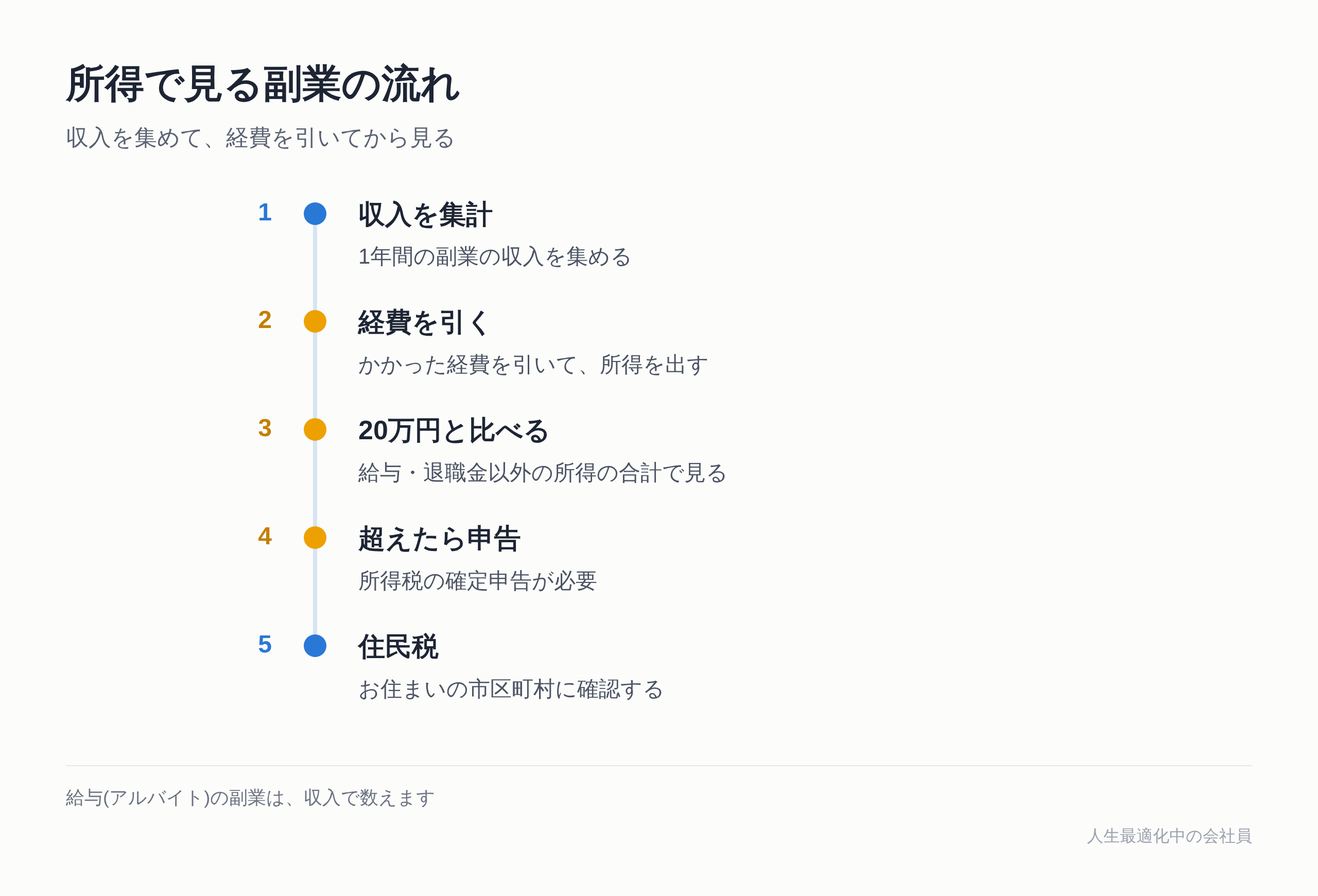
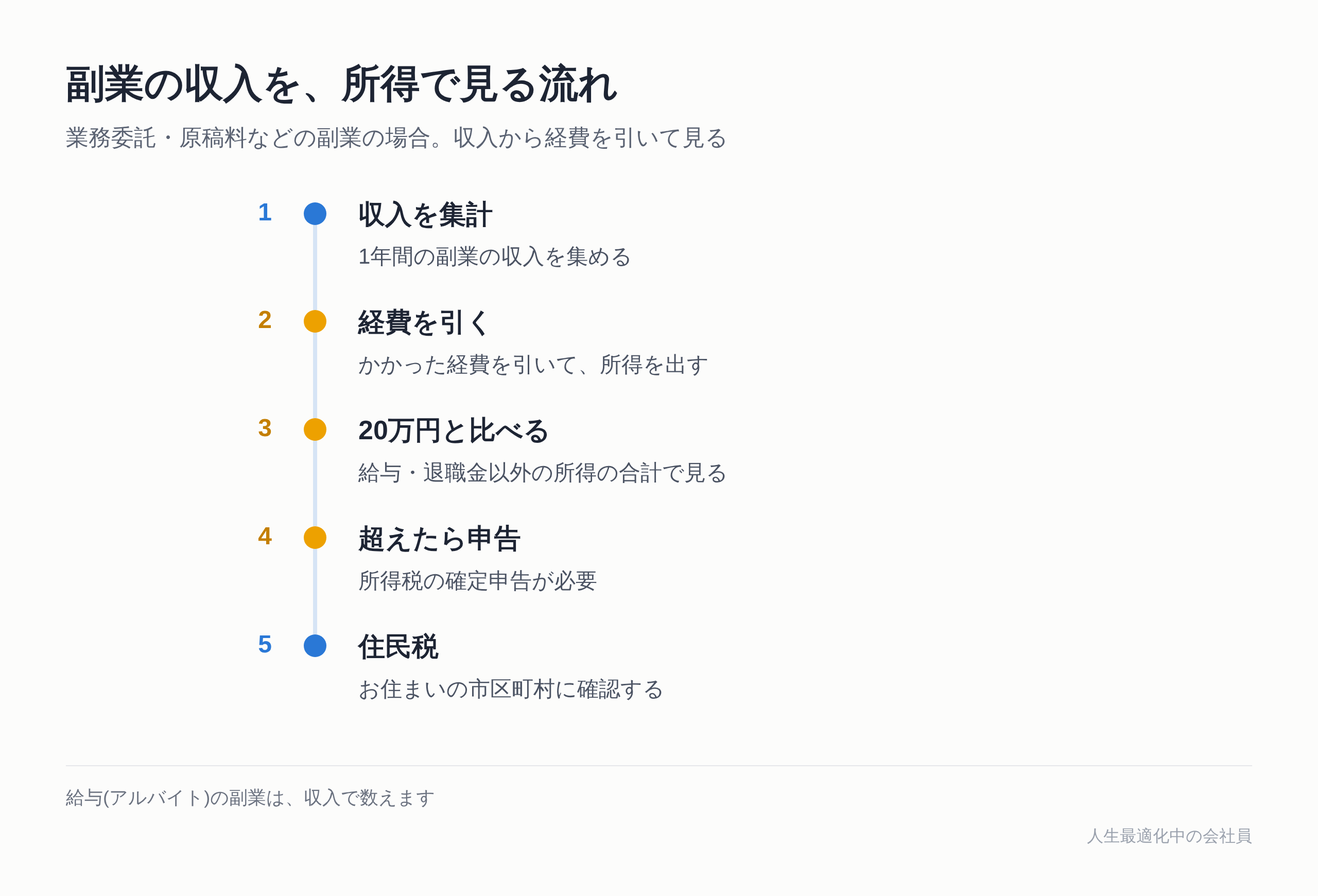
2026-10-24_001: redo edit; new title; update cover, fig1, SNS drafts
Claude-Session: https://claude.ai/code/session_019jxzMkHZEL8EPC28xkVZW1

Changed region(s): [[0.0312, 0.0621, 0.4688, 0.1862], [0.5, 0.1241, 0.5312, 0.1552]]

diff --git a/runs/2026-10-24_001/05_revised.md b/runs/2026-10-24_001/05_revised.md
@@ -1,4 +1,4 @@
-# 副業の申告、入金額ではなく「所得」で見る理由
+# 副業の申告、「収入」と「所得」は別もの
 【画像:2026-10-24_cover.png】
 
 どうも、地道編集部です。今日は、副業のお金の話です。
@@ -7,13 +7,13 @@
 
 ## 結論:業務委託・原稿料などの副業は「所得」で見る
 
-国税庁の案内によると、会社から給与を1か所から受けている人は、給与と退職金以外の所得の合計が年20万円を超えると、所得税の確定申告が必要です(国税庁の案内。末尾の情報源1)。
+令和8年4月1日現在の法令にもとづく国税庁の案内によると、給与を1か所だけから受けている人は、給与と退職金以外の所得の合計が年20万円を超えると、所得税の確定申告が必要です(国税庁の案内。末尾の情報源1)。
 
-ここでいう「所得」は、入金の合計(収入)ではありません。収入から必要経費を引いた、副業の「もうけ」のことです。国税庁の雑所得のページでは、営利目的で継続的に行う副業の収入を「業務に係る雑所得」として説明していて、原稿料なども例に挙がっています。その金額は、総収入金額から必要経費を差し引いて計算します(情報源3)。
+ここでいう「所得」は、収入の合計そのものではありません。収入から必要経費を引いた、副業の「もうけ」のことです。国税庁の雑所得のページでは、営利目的で継続的に行う副業の収入を「業務に係る雑所得」として説明していて、原稿料なども例に挙がっています。その金額は、総収入金額から必要経費を差し引いて計算します(情報源3)。
 
 ただし、副業がアルバイトなどの給与の場合は、判定のしかたが違います。次の節で説明します。
 
-まず、所得で見る副業の流れです。
+業務委託・原稿料などの副業の場合の流れです。
 
 【画像:2026-10-24_fig1_timeline.png】
 
@@ -29,7 +29,7 @@
 
 掛け持ちのアルバイトなら、給与は収入のまま判定します。ここで経費を引いてしまうと、判定がずれます。当てはまる人は、国税庁のページ(情報源1)で、自分の場合を一度見ておくと安心です。
 
-このほか、給与の年間収入が2,000万円を超える人も、確定申告が必要です(情報源1)。反対に、申告すると税金が戻る人は、必須の対象から外れ、申告は任意になります(情報源1)。
+このほか、給与の年間収入が2,000万円を超える人も、確定申告が必要です(情報源1)。反対に、申告すると税金が戻る人は、出さなくても構いません。出すかどうかは任意です。
 
 ## 住民税は、別に確かめる
 
@@ -37,16 +37,16 @@
 
 ## 失敗1:収入と所得の違いを知らない
 
-経費をたくさん使った月ほど、なんとなく「稼いだ」気がする。そんなこと、ありませんか。でも、判定に使うのは入金の多さではなく、所得です。
+経費をたくさん使った月ほど、なんとなく「稼いだ」気がする。そんなこと、ありませんか。でも、判定に使うのは収入の多さではなく、所得です。
 
 ここから先は、説明用の架空の例です。
 
 - 例A:1年の収入が30万円、必要経費が12万円 → 所得は18万円
 - 例B:1年の収入が25万円、必要経費が3万円 → 所得は22万円
 
-収入だけを見ると、Aのほうが大きく見えます。でも、所得はBのほうが大きく、この例では、Bだけが20万円を超えます。経費に何が入るかは人によって違うので、上の数字は計算の流れを見るためのものです。
+収入はAのほうが多いのに、20万円を超えるのはBだけです。経費に何が入るかは人によって違うので、上の数字は計算の流れを見るためのものです。
 
-もう一つ、赤字の扱いも知っておくと役に立ちます。「副業が赤字なら、給与の税金が戻るのでは」と思う人もいるかもしれません。国税庁の雑所得のページでは、雑所得で損失が出ても、他の所得と損益通算はできないと説明されています(情報源3)。副業の赤字を、給与など他の所得から引くことはできない、ということです。
+副業が赤字のときの扱いも、押さえておきます。国税庁の雑所得のページでは、雑所得で損失が出ても、他の所得と損益通算はできないと説明されています(情報源3)。副業の赤字を、給与など他の所得から引くことはできない、ということです。
 
 ## 失敗2:経費の記録を取っていない
 
@@ -54,11 +54,11 @@
 
 年が明けてから、レシートを探し回って見つからない。そんな年明けになりがちです。
 
-記録は、1つのメモか表に、日付・金額・何のためのお金かを書いておくだけでも形になります。入金と出費を分けておくと、あとで数えるのがラクです。
+記録は、1つのメモか表に、日付・金額・何のためのお金かを書いておくだけでも形になります。収入と出費を分けておくと、あとで数えるのがラクです。
 
-何が必要経費になるかの個別の線引きは、この記事では扱いません。迷うものは、レシートや記録を残したうえで、税務署や専門家に聞くと安心です。
+何が必要経費になるかの個別の線引きは、この記事では扱いません。迷うものは、レシートや記録を残したうえで、税務署や専門家に聞けば確かです。
 
-副業の収入が増えてくると、保存しておく書類の決まりも出てきます。業務の雑所得で、前々年の収入が300万円を超えると、現金預金取引等関係書類(取引の書類)を保存する決まりがあります(情報源3)。まだ先の話の人が多いかもしれませんが、頭の片すみに置いておくと役に立ちます。
+副業の収入が増えてくると、保存しておく書類の決まりも出てきます。業務の雑所得で、前々年の収入が300万円を超えると、現金預金取引等関係書類(取引の書類)を保存する決まりがあります(情報源3)。始めたばかりなら、まだ先の話かもしれません。頭の片すみに置いておけば十分です。
 
 ## 失敗3:会社の副業ルールを見ていない
 
@@ -80,7 +80,7 @@
 4. 会社の就業規則を確認しましたか
 5. 住民税の扱いを、市区町村に確認しましたか
 
-全部にチェックが付かなくても大丈夫です。付かなかった項目が、次にやることです。
+付かなかった項目が、次にやることです。
 
 ## 僕自身の失敗
 
@@ -88,8 +88,8 @@
 
 ## まとめ
 
-- 業務委託・原稿料などの副業は、収入ではなく「所得(収入−必要経費)」で見る。副業が給与(アルバイト)なら判定は別なので、国税庁のNo.1900を確認する
-- 給与を1か所から受けている人は、給与と退職金以外の所得が年20万円を超えると、所得税の確定申告が必要
+- 業務委託・原稿料などの副業は、収入そのものではなく「所得(収入−必要経費)」で見る。副業が給与(アルバイト)なら判定は別なので、国税庁の案内(情報源1)を確認する
+- 令和8年4月1日現在、給与を1か所だけから受けている人は、給与と退職金以外の所得が年20万円を超えると、所得税の確定申告が必要
 - 住民税の扱いは、市区町村に確認する
 
 この記事は、国税庁の公開情報をもとにした一般的な情報で、税務や法律の助言ではありません。実際の判断は、自己責任で、税務署や税理士などの専門家、お住まいの市区町村に相談してください。
@@ -104,22 +104,18 @@
 - 情報源3: https://www.nta.go.jp/taxes/shiraberu/taxanswer/shotoku/1500.htm (国税庁 No.1500 雑所得。確認日:2026-10-24。法令等の基準日:令和8年4月1日現在)
 
 ## 修正履歴
-- 問題1: 結論の見出しを「業務委託・原稿料などの副業は「所得」で見る」に絞り、直後に「副業がアルバイトなどの給与の場合は判定が違う」と1文を追加。新しい節「副業が給与(アルバイト)のときは「収入」で見る」を作り、給与型は収入で判定すると明記(S1)。まとめ1行目にも「給与(アルバイト)なら判定は別。No.1900を確認」を追加。チェックリスト3も所得/収入の区別に変更。
-- 問題2: 住民税は別節にして、「公的年金のページの注記」「副業の場合の扱いはこの記事では確認できていない」と出典の範囲に合わせた。まとめは「市区町村に確認する」まで弱め、fig1の5番、チェックリスト5も「申告が必要な場合がある」と言い切らない文言にした。
-- 問題3: タイトルを批評案の「副業の「20万円」、何の20万円?」(17字、短い型)に変更。導入のフックとつながる。
-- 問題4: 「僕が確認できた/確認できていない/確認できなかった」を全て外し、記事の範囲の話に直した。「確認できていません」は住民税の1か所のみ。「僕が作った架空の例」は「説明用の架空の例」に変更。
-- 問題5: 字数を2,500〜3,500字の範囲に調整(手計算で本文約2,900字。機械検査は未実施)。足したのは01_research.mdの確認済み事実のみ(還付なら申告は任意[S1]、損益通算できない[S4]、年収2,000万円超[S1])。
-- 問題6: 失敗3を3行の確認項目に縮め、「申告とは別に会社のルールも始める前に」とつないだ。言い訳の文は削除。浮いた分は損益通算・還付に回した。
-- 問題7: 導入を、読者の場面としてひと続きに書き直した(「副業を始めて、初めての入金があった。…」)。
-- 問題8: 失敗1のあるあるを「経費をたくさん使った月ほど、なんとなく「稼いだ」気がする」に変更。author_notes.md の該当行の更新は、このAgentの権限外のため未対応(呼び出し元で更新が必要)。
-- 問題9: あいさつを「どうも、地道編集部です。今日は、副業のお金の話です。」に変更(10-22、10-23の「こんにちは、人生最適化中の会社員です…」と別の型)。お礼も「読んでくれて、ありがとうございました。」に変えた。
-- 問題10: 雑所得の説明を「国税庁の雑所得のページでは、営利目的で継続的に行う副業の収入を「業務に係る雑所得」として説明」と出典の書き方に合わせた。
-- 問題11: 「など」を消し、「業務の雑所得で、前々年の収入が300万円を超えると、取引の書類を保存する決まり」とした。
-- 問題12: 「給与と退職金以外の所得」に直した。
-- 問題13: 判定の根拠をS1(基準日が令和8年4月1日)に寄せ、令和6年分のS2(r6のページ)は情報源から外した。
-- 問題14: 「年末調整されなかった給与の収入」を「勤め先で年末の手続き(年末調整)をしていない側の給与の「収入」」に言い換え。本文中の出典は「(情報源1)」の形にした(初出のみ「国税庁の案内。末尾の情報源1」)。
-- 問題15: 失敗例の1つ目を「「20万円」を、入金の合計のことだと思っていた」だけにした。
-- 問題16: 執筆メモを削除。内容はauthor_notes.md側に置く必要があるが、このAgentの権限外のため未対応(呼び出し元で更新が必要)。
-- 校正: 「〜と考えられます」を2か所とも言い切りに変更。「先に答えを書きます」「流れにすると、次のとおりです」「ここまでを、チェックリストにまとめます」を削除。まとめを5行から3行に絞った。「〜してください」の一部を「〜と安心です」「〜で確かめられます」に変更。あるあるの締めを変えた(「そんな人もいると思います」は導入の1回のみ)。「失敗3」の見出しを「見ていない」に統一。表記は「副業」「所得」「収入」「必要経費」「確定申告」で統一。
-- タイトル変更(2026-10-24、持ち主の指示「意味がわからない」): 「副業の「20万円」、何の20万円?」(「何の20万円」が読者に伝わりにくい)を、本文の中身(入金額ではなく所得で見る)に合う「副業の申告、入金額ではなく「所得」で見る理由」(22字)に変えた。見出し画像・SNS案の同じタイトルも直した。
-- 体験欄(2026-10-24): 持ち主の言葉1文だけを、そのまま反映した。誤字は見当たらず直していない。持ち主が書いていない理由・時期・数字は足していない。
+- 問題1: 対応した。タイトルから「理由」を外し、本文が扱う中身に合わせて「副業の申告、「収入」と「所得」は別もの」(19字)に変更した。給与型は収入、業務委託型は所得という本文とも食い違わない。理由の説明は01_research.mdに出典が無いため、本文には足していない。
+- 問題2: 対応した。問題1のタイトルで、「所得で見る」と全員向けに言い切る形をやめた。「申告」の範囲は、結論の文に「所得税の確定申告」と入れ、住民税は別の節に分けた。
+- 問題3: 対応した。タイトルの「入金額」を消した。本文は「ここでいう「所得」は、収入の合計そのものではありません」に直した。「入金」を収入の言い換えに使うのをやめ、失敗1は「収入の多さ」、失敗2は「収入と出費を分けておく」に直した。導入の「初めての入金」は読者の場面なので残した。源泉徴収や手数料の例は、出典が無いので足していない。
+- 問題4: 対応しなかった(持ち主に聞く)。「僕自身の失敗」の見出しは、機械の検品が見る可能性があるので変えず、持ち主の1文も一字も変えていない。持ち主への問いは author_notes.md に残した。問い: 見出しを「僕のいま」などに変えるか、残して申告まわりのつまずきを1文足すか。
+- 問題5: 対応しなかった(持ち主に聞く)。「」で囲んだ今の形と普通体のまま、一字も変えていない。「」を外して地の文にするか、普通体のままでよいかは、author_notes.md の問いに残した。
+- 問題6: 対応した。結論の1文目に「令和8年4月1日現在の法令にもとづく国税庁の案内によると」を入れた。まとめの2行目にも同じ時点を入れた。数字は変えていない。
+- 問題7: 対応した。「まだ先の話の人が多いかもしれません」を「始めたばかりなら、まだ先の話かもしれません」に直し、割合を外した。
+- 問題8: 対応した。赤字の文を「副業が赤字のときの扱いも、押さえておきます。」とし、思い込みの場面をやめた。「あるある」は導入・失敗1・失敗2の3か所に収まる。author_notes.md の記録を、本文の今の文言と節(失敗2)に直した。
+- 問題9: 対応した。図の前に「業務委託・原稿料などの副業の場合の流れです。」を入れた。図の側の範囲の入れ方は、author_notes.md に書いた(figures.json は呼び出し元が直す)。
+- 問題10: 対応した。「会社から給与を1か所から受けている人」を「給与を1か所だけから受けている人」に直した。「今の会社」は、出典に無い言い換えになるので使っていない。
+- 問題11: 対応した。まとめの「No.1900を確認する」を「国税庁の案内(情報源1)を確認する」に直した。
+- 問題12: 対応した。「役に立ちます」は、赤字の文を書き換えたため1回(のち「頭の片すみに置いておけば十分です」)に変え、「安心です」は「税務署や専門家に聞けば確かです」に変えた。「安心です」は給与型の節の1回だけ。
+- 校正: 2,000万円の文の(情報源1)の重複を消し、「出さなくても構いません。出すかどうかは任意です」に直した。A・Bの例の文を「収入はAのほうが多いのに、20万円を超えるのはBだけです。」の1文にした。チェックリストの後の励ましの1文目を削除した。「多いかもしれません」は外した。
+- タイトル変更(2026-10-24): 持ち主の「意味がわからない」を受けた前回の変更(「副業の申告、入金額ではなく「所得」で見る理由」)を、批評1〜3を受けて「副業の申告、「収入」と「所得」は別もの」に変えた。見出し画像と06_sns.mdの直し先は author_notes.md に書いた。
+- 体験欄(2026-10-24): 持ち主の1文は、一字も変えず、足してもいない。理由・時期・数字は足していない。

diff --git a/runs/2026-10-24_001/06_sns.md b/runs/2026-10-24_001/06_sns.md
@@ -1,12 +1,12 @@
-# SNS投稿案: 副業の申告、入金額ではなく「所得」で見る理由
+# SNS投稿案: 副業の申告、「収入」と「所得」は別もの
 
 ## X投稿案
-- 副業の申告、入金額ではなく「所得」で見る理由 業務委託や原稿料などの副業は、入金の合計ではなく「収入−必要経費」の所得で見ます。国税庁の案内をもとに整理しました。【記事URL】
+- 副業の申告、「収入」と「所得」は別もの 業務委託や原稿料などの副業は、入金の合計ではなく「収入−必要経費」の所得で見ます。国税庁の案内をもとに整理しました。【記事URL】
 - 例えば(架空の例)。収入30万円・経費12万円なら所得は18万円。収入25万円・経費3万円なら所得は22万円。収入が大きくても、所得は小さいことがあります。【記事URL】
 - 副業がアルバイトなど給与の場合は、数え方が別です。経費を引かず「収入」で見ます。自分はどちらか、国税庁のNo.1900で一度確かめておくと安心です。【記事URL】
 - 副業の赤字は、給与など他の所得から引けるのか。国税庁の雑所得のページでは、損益通算はできないと説明されています。記事で整理しました。【記事URL】
-- [告知・投稿当日用] 本日の記事です。「副業の申告、入金額ではなく「所得」で見る理由」。収入と所得の違い、経費の記録、会社の副業ルール、申告前に確かめる5つを整理しました。【記事URL】
-- [告知・2日後のリマインド用] 先日公開した「副業の申告、入金額ではなく「所得」で見る理由」です。副業で入金があった方は、申告の前に確かめる5つのチェックを置いています。よければどうぞ。【記事URL】
+- [告知・投稿当日用] 本日の記事です。「副業の申告、「収入」と「所得」は別もの」。収入と所得の違い、経費の記録、会社の副業ルール、申告前に確かめる5つを整理しました。【記事URL】
+- [告知・2日後のリマインド用] 先日公開した「副業の申告、「収入」と「所得」は別もの」です。副業で入金があった方は、申告の前に確かめる5つのチェックを置いています。よければどうぞ。【記事URL】
 
 ## Threads投稿案
 - 副業で初めての入金があって、通帳の数字が少し増えている。そこで「年20万円までは申告しなくていい」という話を思い出すけれど、何の20万円かはよく分からない。そんな人もいると思います。
@@ -26,18 +26,18 @@
 
 経費の記録は、日付・金額・何のためのお金かをメモしておくだけでも形になります。何が必要経費になるかの線引きは、迷うものを税務署や専門家に聞くと安心です。
 【記事URL】
-- [告知・投稿当日用] 今日の記事を公開しました。「副業の申告、入金額ではなく「所得」で見る理由」。
+- [告知・投稿当日用] 今日の記事を公開しました。「副業の申告、「収入」と「所得」は別もの」。
 
 業務委託・原稿料などの副業は「所得」、アルバイトなど給与の副業は「収入」で見る、という違いから整理しています。あわせて、経費の記録、会社の就業規則、住民税の確認先も。国税庁の公開情報をもとにした、一般的な情報です。
 【記事URL】
-- [告知・2日後のリマインド用] 先日の記事「副業の申告、入金額ではなく「所得」で見る理由」のご案内です。
+- [告知・2日後のリマインド用] 先日の記事「副業の申告、「収入」と「所得」は別もの」のご案内です。
 
 申告の前に確かめる5つ(収入と所得の区別、経費の記録、副業の種類、就業規則、住民税の確認)を、チェックリストにしました。全部に付かなくても大丈夫で、付かなかった項目が次にやることです。
 【記事URL】
 
 ## Instagram投稿案
 カルーセル案(1枚=短い文言)
-- 1枚目: 副業の申告、入金額ではなく「所得」で見る理由
+- 1枚目: 副業の申告、「収入」と「所得」は別もの
 - 2枚目: 国税庁の案内では、給与を1か所から受けている人は、給与と退職金以外の所得が年20万円を超えると所得税の確定申告が必要
 - 3枚目: 「所得」は、入金の合計ではなく「収入−必要経費」
 - 4枚目: 例えば(架空の例)収入30万円・経費12万円 → 所得18万円 / 収入25万円・経費3万円 → 所得22万円
@@ -48,7 +48,7 @@
 - 9枚目: 続きは記事で。プロフィールのリンクから(一般的な情報で、税務の助言ではありません)
 
 ## Instagramキャプション
-副業の申告、入金額ではなく「所得」で見る理由 今日のnoteは、副業のお金の話です。
+副業の申告、「収入」と「所得」は別もの 今日のnoteは、副業のお金の話です。
 
 国税庁の案内によると、会社から給与を1か所から受けている人は、給与と退職金以外の所得の合計が年20万円を超えると、所得税の確定申告が必要です。ここでいう「所得」は、入金の合計ではなく、収入から必要経費を引いた「もうけ」のことです。
 

diff --git a/runs/2026-10-24_001/author_notes.md b/runs/2026-10-24_001/author_notes.md
@@ -3,24 +3,35 @@
 ## Claudeの提案(未確認)
 持ち主が見て、合わなければ消してください。どれも読者の場面として書いたもので、持ち主の体験ではありません。
 
-- 導入の「あるある」:「通帳の数字を見て、20万円が何の数字か分からない。そんな人もいると思います」
+- 導入の「あるある」:「副業を始めて、初めての入金があった。通帳の数字が少し増えている。そこで「年20万円までは申告しなくていい」という話を思い出すけれど、何の20万円かはよく分からない。そんな人もいると思います。」
 - 失敗1の「あるある」:「経費をたくさん使った月ほど、なんとなく「稼いだ」気がする。そんなこと、ありませんか。」
-- 失敗3の「あるある」:「年が明けてから、レシートを探し回って見つからない。そんな年明けになりがちです。」
-- 「あるある」は記事全体で3か所。割合・数字は入れていない。体験欄(【要入力】)には使っていない。
+- 失敗2の「あるある」:「年が明けてから、レシートを探し回って見つからない。そんな年明けになりがちです。」
+- 「あるある」は記事全体で3か所。赤字の文は事実の説明に変え、あるあるにしていない。割合・数字は入れていない。体験欄には使っていない。
+
+## 持ち主に聞きたいこと(批評4・5)
+- 問い1: 「## 僕自身の失敗」の見出しのままだと、中身が今の状況と目標の話なので、読者は失敗談を期待してしまいます。(a) 見出しを「僕のいま」などに変える、(b) 見出しは残して、申告まわりのつまずきを1文足す、のどちらにしますか。(a)にする場合は、機械の検品が見出し名を見ているか、先に確かめます。
+- 問い2: 持ち主の1文は「」で囲んだ形で置いています。「」を外して地の文にしますか。普通体(「頑張ってる」「している。」)のままでよいですか。
+- 答えが来るまで、見出しも文も変えていません。Claude側で失敗談や理由は作りません。
 
 ## 体験欄
-- 「僕自身の失敗」は【要入力】のまま残しています。持ち主の言葉で埋めてください(埋めるまで承認2は止まります)。
-- 「書くとよい失敗の例」は例です。実際にあったことだけを書いてください。
+- 「僕自身の失敗」には、持ち主が書いた1文だけを、そのまま置いています(誤字は見当たらず、直していません)。
 
 ## 持ち主への確認
 - 会社の副業ルール・経費の可否・住民税の手続きは、一次情報を確認できなかったため、確認先の案内にとどめています。
 - 説明用の例A・Bの数字は、架空の例と本文に明記しています。
 
+## 図の直し(呼び出し元が figures.json を直す)
+- cover の title_html: タイトル変更に合わせる。例「副業の申告<br>「<em>収入</em>」と<br>「<em>所得</em>」は別もの」(1行12字以内、1字だけ次の行に落ちない)。icon は doc か yen が合う。
+- fig1(タイムライン): 見出しか注記に「業務委託・原稿料などの副業の場合」を入れる。手順1〜5は本文と同じ(収入を集計→経費を引いて所得→20万円を超えるか→確定申告→住民税は市区町村に確認)。
+- fig2(チェックリスト): 本文と同じ。3番は「所得で見るもの(業務委託など)か、収入で見るもの(給与)か」。変更が無ければ作り直し不要。
+
+## 06_sns.md の直し先
+- 古いタイトル「副業の申告、入金額ではなく「所得」で見る理由」が出てくる所を、すべて「副業の申告、「収入」と「所得」は別もの」に直す。
+- 「入金額」「理由」を使った言い回しがあれば、あわせて直す。plans/2026-10-19/plan.yaml の10-24の title も元のまま(必要なら直す)。
+
 ## 修正の記録
 - 給与(アルバイト)型の副業は「収入」で判定、業務委託などは「所得」で判定、と分けて書いた(国税庁 No.1900)。
 - 住民税は、国税庁の公的年金のページの注記が根拠。副業の場合は未確認と本文に書き、「市区町村に確認」にとどめた。
+- 制度の時点(令和8年4月1日現在)を、結論とまとめに入れた。
 - あいさつ・お礼は、前の2日と違う言い回しに変えた。
-
-## 体験の反映・タイトル変更(2026-10-24)
-- 「僕自身の失敗」は、持ち主が書いた1文だけを、そのまま反映した(誤字は見当たらず、直していない)。
-- タイトルを「副業の申告、入金額ではなく「所得」で見る理由」に変更した(持ち主の指示。元は「副業の「20万円」、何の20万円?」)。plans/2026-10-19/plan.yaml の10-24の title は元のまま。
+- タイトルを「副業の申告、「収入」と「所得」は別もの」(19字)に変更した(批評1〜3。元は「副業の「20万円」、何の20万円?」、途中は「副業の申告、入金額ではなく「所得」で見る理由」)。
